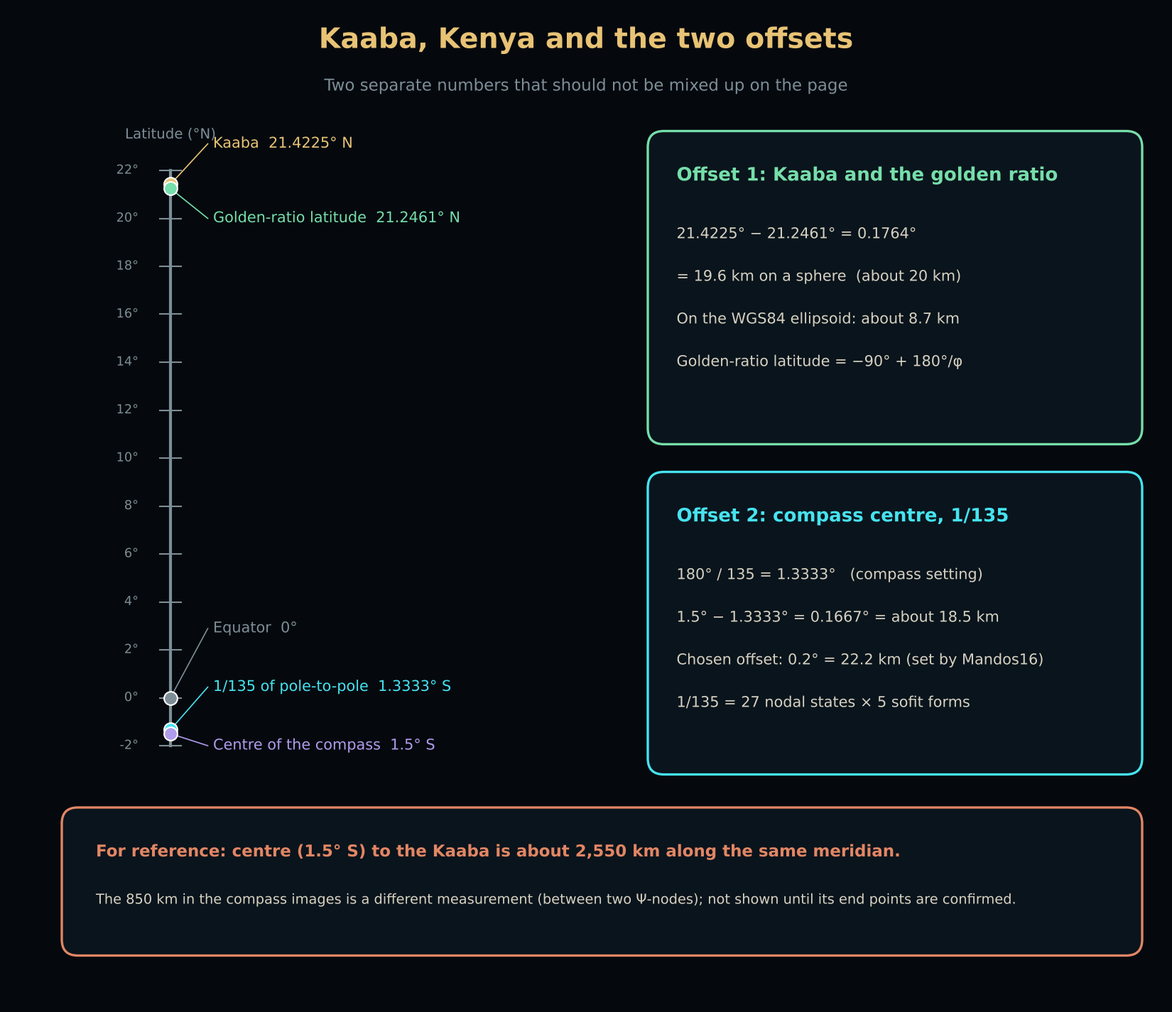
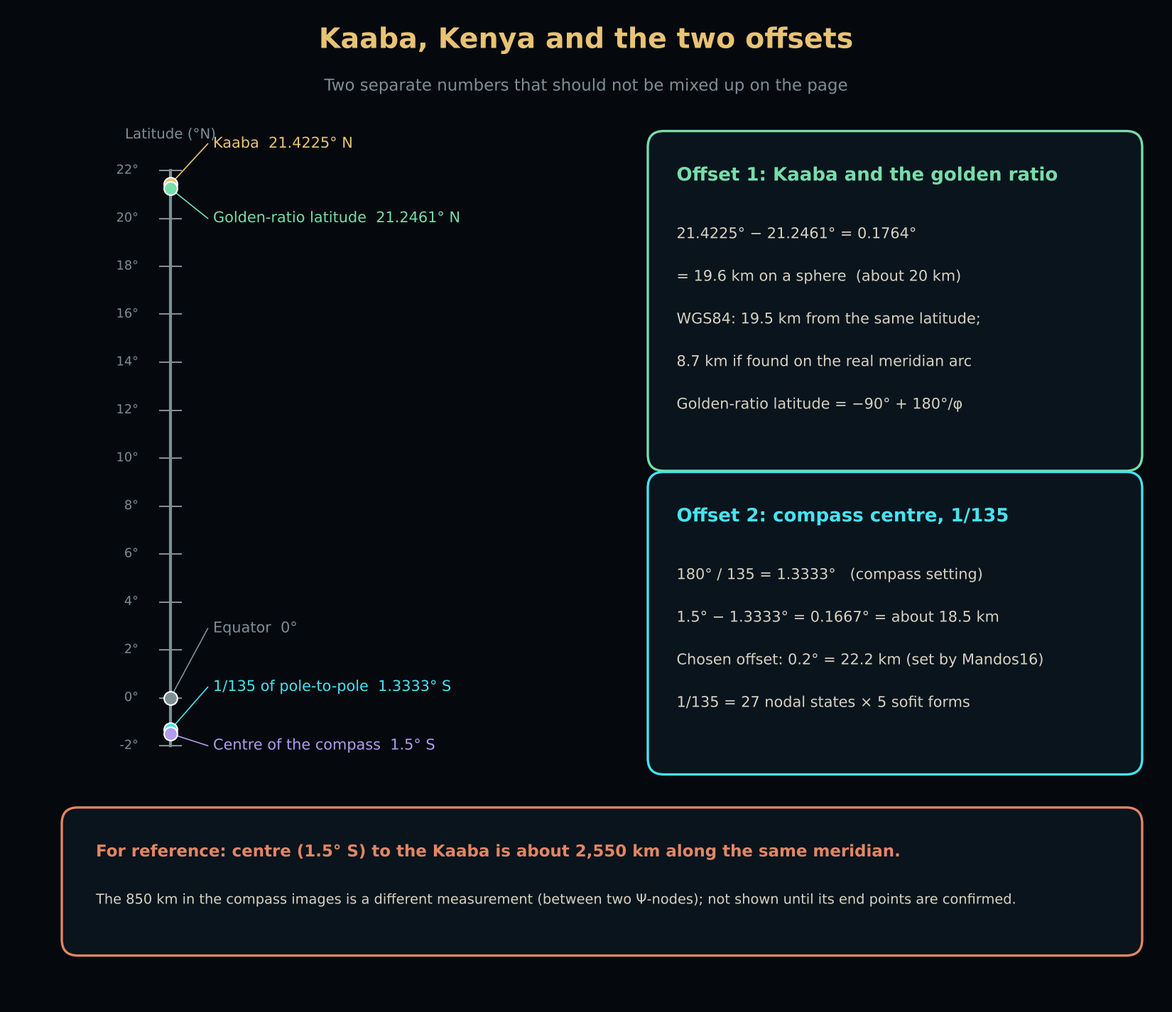
3D sphere for white paper shapes

Changed region(s): [[0.5873, 0.3088, 0.8345, 0.4014], [0.9582, 0.4323, 0.9891, 0.4632], [0.5564, 0.4323, 0.5873, 0.4632]]

diff --git a/ophanim-engine-codex.html b/ophanim-engine-codex.html
@@ -373,6 +373,19 @@ table.eng tr.hot td{background:rgba(176,156,236,.12)}
 .three div{border:1px solid var(--line);background:var(--panel);padding:12px 14px}
 .three b{display:block;font:12px var(--mono);letter-spacing:.12em;text-transform:uppercase;color:var(--ink-3);font-weight:400;margin-bottom:4px}
 .three span{font-size:28px;color:var(--gold)}
+
+.ctl{display:flex;flex-wrap:wrap;gap:8px 16px;align-items:center;margin:14px 0}
+.ctl label{display:flex;gap:6px;align-items:center;font-size:15px;color:var(--ink-2);cursor:pointer}
+.ctl button,.ctl select{font:13px var(--mono);letter-spacing:.06em;color:var(--gold);background:none;border:1px solid rgba(232,195,117,.45);border-radius:6px;padding:7px 12px;cursor:pointer}
+.ctl button.on{background:rgba(232,195,117,.14);border-color:rgb(232,195,117)}
+.ctl input[type=range]{flex:1;min-width:200px;accent-color:#e8c375}
+.cvw{border:1px solid var(--line);background:#05090e;border-radius:6px;margin-top:10px}
+.cvw canvas{width:100%;display:block;touch-action:none;cursor:grab}
+#gl-cv{aspect-ratio:1.25}#jt-cv{aspect-ratio:1.4}
+.readout{border:1px solid var(--line);background:var(--panel);padding:12px 14px;font-size:17px;margin-top:12px;max-width:none}
+#jt-ladder{display:flex;flex-wrap:wrap;gap:8px;margin:10px 0}
+#jt-ladder button{font:13px var(--mono);color:var(--cyan);background:none;border:1px solid rgba(70,227,240,.4);border-radius:99px;padding:6px 12px;cursor:pointer}
+#jt-ladder button.on{background:rgba(70,227,240,.14);border-color:rgb(70,227,240)}
 @media(max-width:700px){table.eng{font-size:14px}table.eng th,table.eng td{padding:6px 4px}}
 </style>
 </head><body>
@@ -384,7 +397,7 @@ table.eng tr.hot td{background:rgba(176,156,236,.12)}
 </header>
 <nav class="dots" id="dots"></nav>
 <main>
-<section id="hero" data-label="Prologue">
+<section data-narrate id="hero" data-label="Prologue">
   <div class="wrap" style="text-align:center">
     <div class="kicker" style="justify-content:center">Ophanim Codex &middot; The Engine</div>
     <h1>The Ophanim Engine<br><em>A Compass Made of Letters</em></h1>
@@ -393,7 +406,7 @@ table.eng tr.hot td{background:rgba(176,156,236,.12)}
     <div class="scrollcue" style="margin-top:40px">SCROLL &#9662;</div>
   </div>
 </section>
-<section id="wheel" data-label="The wheel">
+<section data-narrate id="wheel" data-label="The wheel">
   <div class="wrap">
     <div class="reveal"><div class="kicker">I &middot; The Wheel</div><h2>A circle of <em>36 points</em></h2>
     <p class="dim" style="max-width:66ch">Take a circle and mark 36 points around it, 10 degrees apart. Node 36 sits at the top (0 degrees) and the numbers climb clockwise, so node 9 is at 90 degrees (east), node 18 at 180 (south) and node 27 at 270 (west).</p>
@@ -408,7 +421,7 @@ table.eng tr.hot td{background:rgba(176,156,236,.12)}
     <div class="scr"><table class="eng"><thead><tr><th>Node</th><th>Angle</th><th>Greek</th><th>Hebrew</th><th>Armenian</th><th>Rune</th></tr></thead><tbody><tr><td class="v">1</td><td>10&deg;</td><td>Alpha (1)</td><td>Aleph (1)</td><td>Ayp (1)</td><td>Fehu</td></tr><tr><td class="v">2</td><td>20&deg;</td><td>Beta (2)</td><td>Beth (2)</td><td>Ben (2)</td><td>Uruz</td></tr><tr><td class="v">3</td><td>30&deg;</td><td>Gamma (3)</td><td>Gimel (3)</td><td>Gim (3)</td><td>Thurisaz</td></tr><tr><td class="v">4</td><td>40&deg;</td><td>Delta (4)</td><td>Daleth (4)</td><td>Da (4)</td><td>Ansuz</td></tr><tr><td class="v">5</td><td>50&deg;</td><td>Epsilon (5)</td><td>He (5)</td><td>Ech (5)</td><td>Raidho</td></tr><tr><td class="v">6</td><td>60&deg;</td><td>Stigma (6)</td><td>Vau (6)</td><td>Za (6)</td><td>Kenaz</td></tr><tr><td class="v">7</td><td>70&deg;</td><td>Zeta (7)</td><td>Zayin (7)</td><td>Eh (7)</td><td>Gebo</td></tr><tr><td class="v">8</td><td>80&deg;</td><td>Eta (8)</td><td>Cheth (8)</td><td>Et (8)</td><td>Wunjo</td></tr><tr><td class="v">9</td><td>90&deg;</td><td>Theta (9)</td><td>Teth (9)</td><td>To (9)</td><td>Hagalaz</td></tr><tr><td class="v">10</td><td>100&deg;</td><td>Iota (10)</td><td>Yod (10)</td><td>Zhe (10)</td><td>Nauthiz</td></tr><tr><td class="v">11</td><td>110&deg;</td><td>Kappa (20)</td><td>Kaph (20)</td><td>Ini (20)</td><td>Isa</td></tr><tr><td class="v">12</td><td>120&deg;</td><td>Lambda (30)</td><td>Lamed (30)</td><td>Liwn (30)</td><td>Jera</td></tr><tr><td class="v">13</td><td>130&deg;</td><td>Mu (40)</td><td>Mem (40)</td><td>Xid (40)</td><td>Eihwaz</td></tr><tr><td class="v">14</td><td>140&deg;</td><td>Nu (50)</td><td>Nun (50)</td><td>C’a (50)</td><td>Perthro</td></tr><tr><td class="v">15</td><td>150&deg;</td><td>Xi (60)</td><td>Samekh (60)</td><td>Ken (60)</td><td>Algiz</td></tr><tr><td class="v">16</td><td>160&deg;</td><td>Omicron (70)</td><td>Ayin (70)</td><td>Ho (70)</td><td>Sowilo</td></tr><tr><td class="v">17</td><td>170&deg;</td><td>Pi (80)</td><td>Pe (80)</td><td>Ja (80)</td><td>Tiwaz</td></tr><tr><td class="v">18</td><td>180&deg;</td><td>Koppa (90)</td><td>Tzaddi (90)</td><td>Ghad (90)</td><td>Berkano</td></tr><tr><td class="v">19</td><td>190&deg;</td><td>Rho (100)</td><td>Qoph (100)</td><td>Che (100)</td><td>Ehwaz</td></tr><tr><td class="v">20</td><td>200&deg;</td><td>Sigma (200)</td><td>Resh (200)</td><td>Men (200)</td><td>Mannaz</td></tr><tr><td class="v">21</td><td>210&deg;</td><td>Tau (300)</td><td>Shin (300)</td><td>Yi (300)</td><td>Laguz</td></tr><tr><td class="v">22</td><td>220&deg;</td><td>Upsilon (400)</td><td>Tav (400)</td><td>Now (400)</td><td>Ingwaz</td></tr><tr><td class="v">23</td><td>230&deg;</td><td>Phi (500)</td><td>Kaph final (500)</td><td>Sha (500)</td><td>Dagaz</td></tr><tr><td class="v">24</td><td>240&deg;</td><td>Chi (600)</td><td>Mem final (600)</td><td>Vo (600)</td><td>Othala</td></tr><tr><td class="v">25</td><td>250&deg;</td><td>Psi (700)</td><td>Nun final (700)</td><td>Ch’a (700)</td><td>Fehu 2</td></tr><tr><td class="v">26</td><td>260&deg;</td><td>Omega (800)</td><td>Pe final (800)</td><td>Pe (800)</td><td>Uruz 2</td></tr><tr><td class="v">27</td><td>270&deg;</td><td>Sampi (900)</td><td>Tzaddi final (900)</td><td>Jheh (900)</td><td>Thurisaz 2</td></tr><tr><td class="v">28</td><td>280&deg;</td><td>Alpha′ (1000)</td><td>Aleph′ (1000)</td><td>Ra (1000)</td><td>Ansuz 2</td></tr><tr><td class="v">29</td><td>290&deg;</td><td>Beta′ (2000)</td><td>Beth′ (2000)</td><td>Se (2000)</td><td>Raidho 2</td></tr><tr><td class="v">30</td><td>300&deg;</td><td>Gamma′ (3000)</td><td>Gimel′ (3000)</td><td>Vew (3000)</td><td>Kenaz 2</td></tr><tr><td class="v">31</td><td>310&deg;</td><td>Delta′ (4000)</td><td>Daleth′ (4000)</td><td>Tiew (4000)</td><td>Gebo 2</td></tr><tr><td class="v">32</td><td>320&deg;</td><td>Epsilon′ (5000)</td><td>He′ (5000)</td><td>Re (5000)</td><td>Wunjo 2</td></tr><tr><td class="v">33</td><td>330&deg;</td><td>Stigma′ (6000)</td><td>Vau′ (6000)</td><td>C’o (6000)</td><td>Hagalaz 2</td></tr><tr class="hot"><td class="v">34</td><td>340&deg;</td><td>Zeta′ (7000)</td><td>Zayin′ (7000)</td><td>Yiwn (7000)</td><td>Naudiz 2</td></tr><tr><td class="v">35</td><td>350&deg;</td><td>Eta′ (8000)</td><td>Cheth′ (8000)</td><td>P’wr (8000)</td><td>Isa 2</td></tr><tr><td class="v">36</td><td>360&deg;</td><td>Sampi′ (9000)</td><td>Teth′ (9000)</td><td>K’ew (9000)</td><td>Jera 2</td></tr></tbody></table></div></details>
   </div>
 </section>
-<section id="cage" data-label="The cage">
+<section data-narrate id="cage" data-label="The cage">
   <div class="wrap">
     <div class="reveal"><div class="kicker">II &middot; The Cage and the Star</div><h2>26 points, <em>then 8 more</em></h2>
     <p class="dim" style="max-width:66ch">Picture a 3 x 3 x 3 block of 27 points, like a Rubik&rsquo;s cube. Remove the one at the very centre and 26 are left: the outside of the cube. The engine calls this the <b>cage</b>. 26 is also the atomic number of iron.</p>
@@ -418,7 +431,7 @@ table.eng tr.hot td{background:rgba(176,156,236,.12)}
     <p class="dim" style="max-width:66ch"><span class="tag fw">framework</span> The claim that the eight corners are eight persistent loops (a Betti-1 count of 8, from topological data analysis) is the paper&rsquo;s own statement. We have not computed it here. The scatter-plot pictures of it that we were shown were simulated, so none is shown on this page.</p></div>
   </div>
 </section>
-<section id="law" data-label="430">
+<section data-narrate id="law" data-label="430">
   <div class="wrap">
     <div class="reveal"><div class="kicker">III &middot; The Number 430</div><h2>Law, number, <em>mathematics</em></h2>
     <p class="dim" style="max-width:66ch">Three Greek words come to exactly the same total, and so do two Hebrew ones. This is the centre of the engine.</p>
@@ -434,15 +447,15 @@ table.eng tr.hot td{background:rgba(176,156,236,.12)}
     <p class="dim" style="max-width:66ch">The compass uses 1/135 as its setting. The reason given in the white paper is that Hebrew has 27 letter-states, 22 letters plus 5 final forms, and the 5 finals multiply: <b>27 x 5 = 135</b>. <span class="tag ok">checked</span> The product is right. <span class="tag fw">framework</span> Choosing 135 rather than 137 (the fine-structure constant is about 1/137.036 in physics) is a deliberate design choice of the engine.</p></div>
   </div>
 </section>
-<section id="kaaba" data-label="The Kaaba">
+<section data-narrate id="kaaba" data-label="The Kaaba">
   <div class="wrap">
     <div class="reveal"><div class="kicker">IV &middot; The Kaaba and the Golden Ratio</div><h2>Two offsets, <em>kept apart</em></h2>
     <p class="dim" style="max-width:66ch">The golden ratio, 1.618, can be used to divide the distance from the South Pole to the North Pole. The point 0.618 of the way up lies at 21.2461 degrees north, from the formula &minus;90 + 180/&phi;. The Kaaba is at 21.4225 degrees north, a gap of 0.1764 degrees.</p>
-    <p class="dim" style="max-width:66ch">On a perfectly round Earth that gap is <b>19.6 km</b>, which the engine rounds to 20 km. On the real, slightly flattened Earth (the WGS84 model) the gap is about <b>8.7 km</b>. The engine&rsquo;s compass centre sits at 1.5 degrees south, and the setting 1/135 of the pole-to-pole arc is 1.3333 degrees, giving a separate gap of about 18.5 km. The engine&rsquo;s own chosen offset of 0.2 degrees (22 km) is a third number, set by the author.</p></div>
+    <p class="dim" style="max-width:66ch">On a perfectly round Earth that gap is <b>19.6 km</b>, which the engine rounds to 20 km. On the real, slightly flattened Earth (WGS84) it depends on how the golden-ratio point is found: measured from the same latitude, 21.2461&deg;, the gap is <b>19.5 km</b>; but if you divide the real pole-to-pole arc by the golden ratio, the point moves to 21.344&deg; and the gap shrinks to about <b>8.7 km</b>. The engine&rsquo;s compass centre sits at 1.5 degrees south, and the setting 1/135 of the pole-to-pole arc is 1.3333 degrees, giving a separate gap of about 18.5 km. The engine&rsquo;s own chosen offset of 0.2 degrees (22 km) is a third number, set by the author.</p></div>
     <figure class="figw reveal"><img src="img/kaaba-kenya.png" alt="Latitude ruler with the Kaaba, the golden-ratio latitude, the equator and the compass centre, and two boxes with the offset calculations" loading="lazy"><figcaption><span class="tag ok">checked</span> every number in the picture. <span class="tag fw">framework</span> what the offsets mean.</figcaption></figure>
   </div>
 </section>
-<section id="corridor" data-label="St Michael">
+<section data-narrate id="corridor" data-label="St Michael">
   <div class="wrap">
     <div class="reveal"><div class="kicker">V &middot; The St Michael Line</div><h2>How far is <em>far</em>?</h2>
     <p class="dim" style="max-width:66ch">The St Michael line runs from St Michael&rsquo;s Mount in Cornwall to Hopton-on-Sea in Norfolk and passes near Burrow Mump, Glastonbury Tor and Avebury. Stonehenge sits to the south of it.</p>
@@ -450,32 +463,70 @@ table.eng tr.hot td{background:rgba(176,156,236,.12)}
     <figure class="figw reveal"><img src="img/st-michael-line.png" alt="Map of the St Michael line with the four sites, and a bar chart comparing two ways of measuring the offsets" loading="lazy"><figcaption><span class="tag ok">checked</span> both sets of numbers, from the same coordinates. They answer different questions, so a figure should always say which method it uses.</figcaption></figure>
   </div>
 </section>
-<section id="cadmus" data-label="Kalamos">
+<section data-narrate id="cadmus" data-label="Kalamos">
   <div class="wrap">
     <div class="reveal"><div class="kicker">VI &middot; The Reed and Cadmus</div><h2>A closed delta, <em>opened</em></h2>
     <p class="dim" style="max-width:66ch">&ldquo;Cadmus&rdquo; (ΚΑΔΜΟΣ) adds up to 335, and &ldquo;reed&rdquo; (ΚΑΛΑΜΟΣ) to 362. The difference, 27, is what you get when the delta (4) is opened into lambda plus alpha (30 + 1 = 31). Revelation 11:1 says &ldquo;a reed like a rod&rdquo;, and those three Greek words add up to 1729: κάλαμος 362 + ὅμοιος 460 + ῥάβδῳ 907.</p></div>
     <figure class="figw reveal"><img src="img/kalamos-cadmus.png" alt="Cadmus and Kalamos letter values and the Revelation 11:1 total of 1729" loading="lazy"><figcaption><span class="tag ok">checked</span> 335, 362, 460, 907 and the total 1729. <span class="tag no">did not hold</span> &ldquo;σῶμα τοῦ Ἰησοῦ&rdquo; by plain letter values is 2499, not 1729.</figcaption></figure>
   </div>
 </section>
-<section id="salt" data-label="Salt">
+<section data-narrate id="globe" data-label="The globe">
   <div class="wrap">
-    <div class="reveal"><div class="kicker">VII &middot; Salt</div><h2>The cube <em>that conducts</em></h2>
+    <div class="reveal"><div class="kicker">VII &middot; The Globe and Its Offsets</div><h2>Turn the Earth, <em>move the offset</em></h2>
+    <p class="dim" style="max-width:66ch">Drag the globe to turn it. Switch layers on and off. The gold dashed ring is the offset: it sits &epsilon; degrees south of the 1/135 latitude (1.3333&deg; S). Slide &epsilon; or use a preset to move it, and the distances below are worked out live, once for a perfectly round Earth and once for the real, slightly flattened Earth (WGS84).</p>
+    <p class="dim" style="max-width:66ch;font-size:15px">The compass centre and the offset points are placed on the Kaaba&rsquo;s meridian (39.83&deg; E) because their longitude is not yet fixed. The coastlines are rough outlines to help you find your way, not a map.</p></div>
+    <div class="cvw reveal"><canvas id="gl-cv"></canvas></div>
+    <div class="ctl reveal">
+      <label><input type="checkbox" id="gl-auto"> Turn slowly</label>
+      <label><input type="checkbox" id="gl-land"> Outlines</label>
+      <label><input type="checkbox" id="gl-grid"> Grid</label>
+      <label><input type="checkbox" id="gl-eq"> Equator</label>
+      <label><input type="checkbox" id="gl-gold"> Golden-ratio latitude</label>
+      <label><input type="checkbox" id="gl-kaaba"> Kaaba</label>
+      <label><input type="checkbox" id="gl-c135"> 1/135 and centre</label>
+      <label><input type="checkbox" id="gl-eps"> Offset ring</label>
+      <label><input type="checkbox" id="gl-stm"> St Michael line</label>
+      <label><input type="checkbox" id="gl-tour"> Tour stations (approx.)</label>
+    </div>
+    <div class="ctl reveal"><span style="font-size:15px;color:var(--ink-2)">Offset &epsilon;</span><input type="range" id="gl-epsr" min="0" max="1" step="0.0001" value="0.1667" aria-label="Offset in degrees"><button type="button" id="gl-p1">0.1667&deg; (centre 1.5&deg; S)</button><button type="button" id="gl-p2">0.2&deg; (chosen)</button><button type="button" id="gl-p3">0.1764&deg; (Kaaba gap)</button></div>
+    <p class="readout reveal" id="gl-epsout"></p>
+    <div class="ctl reveal"><span style="font-size:15px;color:var(--ink-2)">Measure from</span><select id="gl-a" aria-label="From"></select><span style="font-size:15px;color:var(--ink-2)">to</span><select id="gl-b" aria-label="To"></select></div>
+    <p class="readout reveal" id="gl-dist"></p>
+    <p class="dim reveal" style="max-width:66ch;font-size:15px;margin-top:10px"><span class="tag ok">checked</span> The distances use the haversine formula for the sphere and Vincenty&rsquo;s method for the WGS84 ellipsoid. The tour stations are approximate positions read from names, not surveyed points.</p>
+  </div>
+</section>
+<section data-narrate id="jitter" data-label="Jitterbug">
+  <div class="wrap">
+    <div class="reveal"><div class="kicker">VIII &middot; The Jitterbug and the Ladder</div><h2>Shapes that <em>grow and turn</em></h2>
+    <p class="dim" style="max-width:66ch">Buckminster Fuller found that a cuboctahedron, 12 points around a centre, can fold and twist into an icosahedron and then an octahedron, as if it were breathing. Press Play, or drag the slider to move it yourself.</p>
+    <p class="dim" style="max-width:66ch">The second view is a ladder of shapes by number of points: tetrahedron 4, octahedron 6, cube 8, icosahedron 12, the 13-point vector equilibrium, the 26-point cage, the 27-point block and the 34-point radiator. Pick a rung and the points move to the next shape. The ladder does not yet reach 36 or 37, because those shapes have not been defined by a construction.</p></div>
+    <div class="ctl reveal"><button type="button" id="jt-m1" class="on">Jitterbug</button><button type="button" id="jt-m2">Ladder of shapes</button><span id="jt-cnt" style="font:13px var(--mono);color:var(--ink-2);margin-left:auto"></span></div>
+    <div class="cvw reveal"><canvas id="jt-cv"></canvas></div>
+    <div class="ctl reveal" id="jt-jctl"><button type="button" id="jt-play">Play</button><input type="range" id="jt-u" min="0" max="2" step="0.001" value="0" aria-label="Jitterbug position"></div>
+    <div id="jt-lad-wrap" style="display:none" class="reveal"><div id="jt-ladder"></div></div>
+    <p class="readout reveal" id="jt-note"></p>
+    <p class="dim reveal" style="max-width:66ch;font-size:15px;margin-top:10px"><span class="tag ok">checked</span> The jitterbug motion uses the true family of points (0, &plusmn;a, &plusmn;b) with the ratio b/a running from 1 (cuboctahedron) to the golden ratio 1.618 (icosahedron) and on to infinity (octahedron).</p>
+  </div>
+</section>
+<section data-narrate id="salt" data-label="Salt">
+  <div class="wrap">
+    <div class="reveal"><div class="kicker">IX &middot; Salt</div><h2>The cube <em>that conducts</em></h2>
     <p class="dim" style="max-width:66ch">Table salt, sodium chloride (NaCl), forms cubic crystals. Inside, each sodium ion is surrounded by six chloride ions at right angles, and each chloride by six sodium: an octahedron around every ion, inside a cube. That is chemistry, and it fits the geometry of this page well: the cube and the octahedron are the two shapes it keeps using.</p>
     <p class="dim" style="max-width:66ch">Salt dissolved in water carries electricity, which is why the saline drip in a hospital is about 0.9% NaCl. Your nerves and heart depend on sodium and potassium ions crossing cell membranes. Pure distilled water carries almost no current.</p>
     <p class="dim" style="max-width:66ch">Mark 9:49 reads &ldquo;every sacrifice will be seasoned with salt&rdquo;. <span class="tag ok">checked</span> The Greek of that phrase adds up to 1748, the same as εἰδωλόθυτον (food offered to idols). Zamzam, the well water of Mecca, contains sodium chloride along with other minerals; the white papers do not mention it.</p></div>
   </div>
 </section>
-<section id="words" data-label="Words">
+<section data-narrate id="words" data-label="Words">
   <div class="wrap">
-    <div class="reveal"><div class="kicker">VIII &middot; Words That Add Up</div><h2>The sums <em>we checked</em></h2>
+    <div class="reveal"><div class="kicker">X &middot; Words That Add Up</div><h2>The sums <em>we checked</em></h2>
     <p class="dim" style="max-width:66ch">Every line below was recomputed with the 27-letter Greek system (stigma 6, koppa 90, sampi 900).</p>
     <div class="scr"><table class="eng"><thead><tr><th>Word</th><th>Value</th><th>Note</th></tr></thead><tbody><tr><td class="n" lang="el">ΓΡΑΜΜΑ</td><td class="v">185</td><td>&ldquo;letter&rdquo;. 4,995 / 185 = 27, the number of letters in the grid</td></tr><tr><td class="n" lang="el">ΑΡΙΘΜΟΣ</td><td class="v">430</td><td>number</td></tr><tr><td class="n" lang="el">ΝΟΜΟΣ</td><td class="v">430</td><td>law</td></tr><tr><td class="n" lang="el">ΜΑΘΗΜΑΤΙΚΑ</td><td class="v">430</td><td>mathematics</td></tr><tr><td class="n" lang="el">τὸ δίκτυον</td><td class="v">1224</td><td>the net (John 21)</td></tr><tr><td class="n" lang="el">ἰχθύες</td><td class="v">1224</td><td>fishes. 1224 = 153 x 8</td></tr><tr><td class="n" lang="el">Ἰησοῦς</td><td class="v">888</td><td></td></tr><tr><td class="n" lang="el">Ἀλήθεια</td><td class="v">64</td><td>truth. 37 x 64 = 2368</td></tr><tr><td class="n" lang="el">Ἰησοῦς Χριστός</td><td class="v">2368</td><td>= 37 x 64</td></tr><tr><td class="n" lang="el">τὸ Ἅγιον Πνεῦμα</td><td class="v">1080</td><td>the Holy Spirit</td></tr><tr><td class="n" lang="el">ἡ δόξα τοῦ θεοῦ Ἰσραήλ</td><td class="v">1746</td><td>1080 + 666 = 1746</td></tr><tr><td class="n" lang="el">ἐποίησεν πηλόν</td><td class="v">666</td><td>he made clay (John 9:6)</td></tr><tr><td class="n" lang="el">πλευράν</td><td class="v">666</td><td>rib</td></tr><tr><td class="n" lang="el">Γάιος Καῖσαρ</td><td class="v">616</td><td>Caligula, the 616 variant</td></tr><tr><td class="n" lang="el">καὶ πᾶσα θυσία ἁλὶ ἁλισθήσεται</td><td class="v">1748</td><td>Mark 9:49, every sacrifice salted</td></tr><tr><td class="n" lang="el">εἰδωλόθυτον</td><td class="v">1748</td><td>food offered to idols</td></tr><tr><td class="n" lang="el">οὐδὲ ὁ Υἱός</td><td class="v">1229</td><td>nor the Son</td></tr><tr><td class="n" lang="el">πληρῶσαι</td><td class="v">1229</td><td>to fill up</td></tr><tr><td class="n" lang="el">περιστερά</td><td class="v">801</td><td>dove. Also Α + Ω = 1 + 800</td></tr><tr><td class="n" lang="el">ὁ Κτίσας</td><td class="v">801</td><td>the Creator</td></tr><tr><td class="n" lang="el">ὁ Θεὸς Ἑρμῆς</td><td class="v">707</td><td>the god Hermes. &radic;5000 = 70.71</td></tr><tr><td class="n" lang="el">Χριστός</td><td class="v">1480</td><td></td></tr><tr><td class="n" lang="el">ἄρτοι</td><td class="v">481</td><td>loaves</td></tr><tr><td class="n" lang="el">κάλαμος</td><td class="v">362</td><td>reed</td></tr></tbody></table></div>
     <p class="dim" style="max-width:66ch;margin-top:12px"><span class="tag ok">checked</span> Also: the 27 letters add up to 4,995, and 4,995 / 185 (ΓΡΑΜΜΑ) = 27. The words for 666 written out (ἑξακόσιοι ἑξήκοντα ἕξ) and Αὐτοκράτωρ Καῖσαρ both come to 199 when letters are counted in order (α = 1 to ω = 24), a different method from the one above.</p></div>
   </div>
 </section>
-<section id="audit" data-label="For audit">
+<section data-narrate id="audit" data-label="For audit">
   <div class="wrap">
-    <div class="reveal"><div class="kicker">IX &middot; Open for Audit</div><h2>What <em>did not hold</em></h2></div>
+    <div class="reveal"><div class="kicker">XI &middot; Open for Audit</div><h2>What <em>did not hold</em></h2></div>
     <div class="record reveal audit">
       <p>We recomputed every number we could. These did not hold as written, so they are kept off the page as facts:</p>
       <ul style="margin:10px 0 0 22px">
@@ -485,7 +536,7 @@ table.eng tr.hot td{background:rgba(176,156,236,.12)}
         <li><span class="tag no">did not hold</span> <b>Ἰδιώτης = 1331 (11 cubed).</b> It adds up to 1332.</li>
         <li><span class="tag no">did not hold</span> <b>λαός μοι οἶκος Ἰσραήλ = 1530.</b> As spelled here it adds up to 1140.</li>
         <li><span class="tag no">did not hold</span> <b>Node 34 at 330 degrees.</b> Node 34 is at 340 degrees. Node 33 is at 330.</li>
-        <li><span class="tag no">did not hold</span> <b>The 20 km offset &ldquo;on the WGS84 ellipsoid&rdquo;.</b> It is 19.6 km on a sphere and about 8.7 km on the ellipsoid.</li>
+        <li><span class="tag no">did not hold</span> <b>The 20 km offset &ldquo;on the WGS84 ellipsoid&rdquo;.</b> 19.6 km is the round-Earth figure. On the ellipsoid it is 19.5 km from the same latitude, or about 8.7 km if the golden-ratio point is found along the real flattened meridian. The paper does not say which it means.</li>
       </ul>
       <p style="margin-top:14px"><span class="tag fw">framework</span> Everything about what the numbers mean (the cage as a perceptual box, the offsets as pressure valves, the &minus;2.6 valve, the connections to Hoffman and Penrose) is the author&rsquo;s reading, not established science. The white papers also say they are a &ldquo;topological field theory&rdquo;; they are not a published or tested theory, and this page does not present them as one.</p>
     </div>
@@ -535,6 +586,8 @@ const items=[['X',()=>'https://twitter.com/intent/tweet?url='+encodeURIComponent
 items.forEach(([n,f])=>{const a=document.createElement('a');a.textContent=n;a.href='#';a.target='_blank';a.rel='noopener noreferrer';a.addEventListener('click',e=>{a.href=f();});box.appendChild(a);});
 const b=document.createElement('button');b.type='button';b.textContent=L.copy;b.addEventListener('click',()=>{const s=()=>{b.textContent=L.done;setTimeout(()=>b.textContent=L.copy,1800)};try{navigator.clipboard.writeText(u()).then(s,()=>prompt(L.copy,u()))}catch(e){prompt(L.copy,u())}});box.appendChild(b);})();
 </script>
+<script src="audio.js"></script>
+<script src="engine3d.js"></script>
 <script src="miniplayer.js"></script>
 </body>
 </html>

diff --git a/engine3d.js b/engine3d.js
@@ -1,0 +1,201 @@
+/* Ophanim Engine: interactive globe with offsets, and the jitterbug / growth ladder. Plain canvas, no libraries. */
+(function(){
+'use strict';
+var D=Math.PI/180, PHI=(1+Math.sqrt(5))/2;
+function $(i){return document.getElementById(i)}
+function fit(cv){var r=cv.getBoundingClientRect(),d=Math.min(2,window.devicePixelRatio||1);cv.width=Math.round(r.width*d);cv.height=Math.round(r.height*d);return {w:cv.width,h:cv.height,d:d}}
+
+/* ================= GLOBE ================= */
+var LAND=[
+[[-17.5,14.7],[-16.5,19.5],[-13,27.5],[-9.5,32],[-6,35.8],[0,35.8],[10,37.2],[11,33],[15,32.3],[20,32],[25,31.8],[32.5,31.2],[34.2,27.8],[36.5,22],[38.5,18],[43.2,12.5],[51,11.8],[51.3,10.5],[48,5],[42,-1],[39.5,-5],[40.5,-11],[40.5,-15],[35,-20],[35.5,-24],[32.5,-26.5],[31,-30],[27,-33.5],[20,-34.8],[18.4,-34],[15,-27],[12,-18],[13.5,-12],[12,-5],[9.5,1],[9.5,4],[6,4.3],[2,6.2],[-4,5.2],[-8,4.5],[-13,8],[-17,12]],
+[[-9.5,37],[-9,43],[-1.5,43.5],[-4.5,48.5],[2,51],[8,54],[10,57.5],[11,59],[5,62],[14,68],[25,71],[40,67],[44,68.5],[60,69],[70,73],[80,73.5],[100,77],[113,73.5],[140,72],[160,70],[170,69.5],[180,68],[180,65],[170,60],[163,58],[156,51],[142,59],[135,54.5],[140,48],[132,43],[129,35],[122,40],[122,31],[120,22],[108,21],[106,10],[100,13],[103,1.3],[98,8],[94,17],[88,22],[80,15],[77.5,8],[72.8,19],[66,25],[57,26],[56,27],[48,30],[50.5,25.5],[56.5,24.5],[59.5,22.5],[52,16],[43,12.8],[39,21.5],[35,28],[34.5,31],[35.8,36.5],[30,36.2],[27,37],[26,40.5],[23.5,40],[21,38],[23,36.5],[19.5,40],[16,38],[18.5,40.2],[12.5,41.5],[9,44.3],[3,43],[-1.5,37],[-5.5,36]],
+[[-5.7,50],[-3,50.6],[1.4,51.2],[1.7,52.7],[0,53.5],[-2,55.8],[-2,57.5],[-3.5,58.6],[-5,58.5],[-6,57],[-5.5,55],[-3,54.7],[-3.2,53.4],[-4.5,53],[-4.2,51.7],[-5.2,51.7]],
+[[-10,51.5],[-6,52],[-6,54.3],[-8,55.2],[-10,54]],
+[[-73,78],[-60,82],[-30,83.5],[-18,80],[-20,70],[-43,60],[-52,64],[-58,76]],
+[[-168,66],[-162,70],[-140,70],[-125,70],[-95,72],[-82,69],[-85,66],[-95,61],[-93,57],[-82,55],[-79,62],[-70,59],[-65,60],[-56,52],[-60,47],[-66,44],[-70,43],[-76,38],[-81,31],[-80,25.5],[-83,29],[-90,29.5],[-97,26],[-97.5,22],[-93,18.5],[-90,21],[-87,21.5],[-88,16],[-83.5,15],[-83.5,10],[-79.5,9],[-77.5,8],[-80,7.5],[-85.5,10],[-87.5,13],[-92,14.5],[-96,15.8],[-105,20],[-109,25],[-112,29],[-114.7,31.5],[-110,23],[-112,25],[-117,32.5],[-121,35],[-124.2,40],[-124,46.5],[-127,50],[-134,57],[-141,60],[-152,59.5],[-158,57],[-165,54.5],[-158,58.5],[-162,60],[-165,63]],
+[[-77.5,8],[-72,12],[-62,10.5],[-51,4],[-50,0],[-44,-2.5],[-35,-5.5],[-37,-12],[-39,-18],[-41,-22.5],[-48,-26],[-53,-34],[-58,-35],[-57,-38],[-62,-39],[-65,-45],[-68,-50],[-69,-53],[-72,-53],[-75,-47],[-73.5,-40],[-71.5,-30],[-70.5,-18],[-76,-14],[-81,-5],[-80,0],[-78.5,2]],
+[[113,-22],[114,-26],[115,-34],[118,-35],[124,-33.5],[131,-31.5],[135.5,-35],[138,-35],[140,-38],[146,-39],[150,-37],[153,-31],[153,-25],[146,-19],[142.5,-10.7],[141,-13],[136,-12],[131,-11.5],[128,-15],[122,-17.5]],
+[[44,-25],[47,-25],[50,-15],[49,-12],[47,-15],[44,-20]]
+];
+var KLAT=21.4225,KLON=39.8262;
+var GOLDLAT=-90+180/PHI;                       /* 21.2461 */
+var L135=-180/135;                              /* -1.3333 */
+var PTS={
+ kaaba:{n:'The Kaaba',lat:KLAT,lon:KLON},
+ gold:{n:'Golden-ratio latitude point',lat:GOLDLAT,lon:KLON},
+ l135:{n:'1/135 latitude point',lat:L135,lon:KLON},
+ centre:{n:'Compass centre (1.5° S)',lat:-1.5,lon:KLON},
+ eps:{n:'Offset point (slider)',lat:L135,lon:KLON},
+ mount:{n:'St Michael’s Mount',lat:50.1167,lon:-5.4833},
+ hopton:{n:'Hopton-on-Sea',lat:52.5310,lon:1.7280},
+ stone:{n:'Stonehenge',lat:51.1789,lon:-1.8262},
+ aveb:{n:'Avebury',lat:51.4286,lon:-1.8542}
+};
+var TOUR=[['Mount Ararat',39.70,44.30],['Matenadaran',40.19,44.52],['Byblos / Ugarit',34.86,35.72],['The Kaaba',KLAT,KLON],['Delphi / Epidaurus',38.04,22.79],['Etruria / Capitoline',42.07,12.12],['St Michael’s corridor',51.3,-1.9],['Rök Runestone',58.30,14.80]];
+
+/* distances: sphere (haversine) and WGS84 ellipsoid (Vincenty inverse) */
+function hav(a,b){var R=6371.0088,p1=a.lat*D,p2=b.lat*D,dp=p2-p1,dl=(b.lon-a.lon)*D;var h=Math.sin(dp/2)*Math.sin(dp/2)+Math.cos(p1)*Math.cos(p2)*Math.sin(dl/2)*Math.sin(dl/2);return 2*R*Math.asin(Math.min(1,Math.sqrt(h)))}
+function vinc(a,b){
+  var A=6378137,F=1/298.257223563,B=(1-F)*A;
+  var U1=Math.atan((1-F)*Math.tan(a.lat*D)),U2=Math.atan((1-F)*Math.tan(b.lat*D)),L=(b.lon-a.lon)*D,lam=L,i=0,sS,cS,sg,cA,c2,C,sl,cl;
+  var sU1=Math.sin(U1),cU1=Math.cos(U1),sU2=Math.sin(U2),cU2=Math.cos(U2);
+  if(Math.abs(a.lat-b.lat)<1e-12&&Math.abs(L)<1e-12)return 0;
+  do{sl=Math.sin(lam);cl=Math.cos(lam);sS=Math.sqrt(Math.pow(cU2*sl,2)+Math.pow(cU1*sU2-sU1*cU2*cl,2));if(sS===0)return 0;cS=sU1*sU2+cU1*cU2*cl;sg=Math.atan2(sS,cS);var sa=cU1*cU2*sl/sS;cA=1-sa*sa;c2=cA?cS-2*sU1*sU2/cA:0;C=F/16*cA*(4+F*(4-3*cA));var lp=lam;lam=L+(1-C)*F*sa*(sg+C*sS*(c2+C*cS*(-1+2*c2*c2)));}while(Math.abs(lam-lp)>1e-12&&++i<200);
+  var u2=cA*(A*A-B*B)/(B*B),AA=1+u2/16384*(4096+u2*(-768+u2*(320-175*u2))),BB=u2/1024*(256+u2*(-128+u2*(74-47*u2)));
+  var ds=BB*sS*(c2+BB/4*(cS*(-1+2*c2*c2)-BB/6*c2*(-3+4*sS*sS)*(-3+4*c2*c2)));
+  return B*AA*(sg-ds)/1000;
+}
+function fmt(x){return x<10?x.toFixed(2):x<100?x.toFixed(1):Math.round(x).toLocaleString('en')}
+
+function initGlobe(){
+  var cv=$('gl-cv'); if(!cv)return;
+  var ctx=cv.getContext('2d'),W,H,lon0=35,lat0=22,drag=null,auto=true,eps=0.1667;
+  var L={land:true,grid:true,eq:true,gold:true,kaaba:true,c135:true,eps:true,stm:false,tour:false};
+  function size(){var s=fit(cv);W=s.w;H=s.h}
+  size();window.addEventListener('resize',function(){size();draw()});
+  function proj(lat,lon){
+    var p=lat*D,l=(lon-lon0)*D,x=Math.cos(p)*Math.sin(l),y=Math.sin(p),z=Math.cos(p)*Math.cos(l);
+    var pc=lat0*D,y2=y*Math.cos(pc)-z*Math.sin(pc),z2=y*Math.sin(pc)+z*Math.cos(pc);
+    var R=Math.min(W,H)*0.45;return {x:W/2+x*R,y:H/2-y2*R,z:z2,R:R};
+  }
+  function line(pts,col,lw,dash){ /* polyline of [lat,lon], hidden part skipped */
+    ctx.beginPath();var pen=false;
+    for(var i=0;i<pts.length;i++){var q=proj(pts[i][0],pts[i][1]);if(q.z<0){pen=false;continue}if(!pen){ctx.moveTo(q.x,q.y);pen=true}else ctx.lineTo(q.x,q.y)}
+    ctx.strokeStyle=col;ctx.lineWidth=lw*(window.devicePixelRatio||1);ctx.setLineDash(dash?dash.map(function(v){return v*(window.devicePixelRatio||1)}):[]);ctx.stroke();ctx.setLineDash([]);
+  }
+  function latc(lat){var a=[];for(var lo=-180;lo<=180;lo+=3)a.push([lat,lo]);return a}
+  function lonc(lon){var a=[];for(var la=-90;la<=90;la+=3)a.push([la,lon]);return a}
+  function dot(lat,lon,col,r,label,dx,dy){var q=proj(lat,lon);if(q.z<0)return;var d=window.devicePixelRatio||1;ctx.beginPath();ctx.arc(q.x,q.y,r*d,0,7);ctx.fillStyle=col;ctx.shadowColor=col;ctx.shadowBlur=10*d;ctx.fill();ctx.shadowBlur=0;ctx.lineWidth=1.2*d;ctx.strokeStyle='#fff';ctx.stroke();if(label){ctx.font=(12*d)+'px Inter,sans-serif';ctx.fillStyle=col;ctx.textAlign=dx<0?'right':'left';ctx.fillText(label,q.x+dx*d,q.y+dy*d)}}
+  function gc(a,b,n){var A=v3(a),B=v3(b),om=Math.acos(Math.max(-1,Math.min(1,A[0]*B[0]+A[1]*B[1]+A[2]*B[2]))),out=[];for(var i=0;i<=n;i++){var f=i/n,s1=Math.sin((1-f)*om)/Math.sin(om),s2=Math.sin(f*om)/Math.sin(om),v=[s1*A[0]+s2*B[0],s1*A[1]+s2*B[1],s1*A[2]+s2*B[2]];out.push([Math.asin(v[2])/D,Math.atan2(v[1],v[0])/D])}return out}
+  function v3(p){var la=p.lat*D,lo=p.lon*D;return [Math.cos(la)*Math.cos(lo),Math.cos(la)*Math.sin(lo),Math.sin(la)]}
+  function draw(){
+    ctx.clearRect(0,0,W,H);var R=Math.min(W,H)*0.45,d=window.devicePixelRatio||1;
+    var g=ctx.createRadialGradient(W/2-R*.3,H/2-R*.3,R*.1,W/2,H/2,R);g.addColorStop(0,'#10303d');g.addColorStop(1,'#050d14');
+    ctx.beginPath();ctx.arc(W/2,H/2,R,0,7);ctx.fillStyle=g;ctx.fill();ctx.lineWidth=1.5*d;ctx.strokeStyle='rgba(70,227,240,.5)';ctx.stroke();
+    if(L.grid){for(var la=-75;la<=75;la+=15)line(latc(la),'rgba(125,142,150,.22)',1);for(var lo=-180;lo<180;lo+=15)line(lonc(lo),'rgba(125,142,150,.22)',1)}
+    if(L.land){LAND.forEach(function(poly){ctx.beginPath();var pen=false,vis=0;poly.forEach(function(p,i){var q=proj(p[1],p[0]);if(q.z>-0.05){vis++;if(!pen){ctx.moveTo(q.x,q.y);pen=true}else ctx.lineTo(q.x,q.y)}});if(vis>2){ctx.closePath();ctx.fillStyle='rgba(118,222,170,.16)';ctx.fill();ctx.lineWidth=1.1*d;ctx.strokeStyle='rgba(118,222,170,.55)';ctx.stroke()}})}
+    if(L.eq)line(latc(0),'rgba(214,210,194,.6)',1.4,[6,5]);
+    if(L.gold){line(latc(GOLDLAT),'rgba(118,222,170,.95)',1.6)}
+    if(L.c135){line(latc(L135),'rgba(70,227,240,.9)',1.5);line(latc(-1.5),'rgba(176,156,236,.9)',1.5)}
+    if(L.eps){line(latc(PTS.eps.lat),'rgba(232,195,117,.95)',1.8,[3,3])}
+    if(L.stm){line(gc(PTS.mount,PTS.hopton,60),'rgba(232,195,117,.95)',1.8);['mount','hopton','stone','aveb'].forEach(function(k,i){dot(PTS[k].lat,PTS[k].lon,k==='stone'?'#e28664':'#e8c375',3.5,i<2?PTS[k].n:'',i==1?6:-6,i==1?4:-4)})}
+    if(L.tour){TOUR.forEach(function(t){dot(t[1],t[2],'#b09cec',3.5,'',0,0)})}
+    if(L.kaaba)dot(KLAT,KLON,'#e8c375',5,'Kaaba',8,-6);
+    if(L.eps||L.c135)dot(-1.5,KLON,'#b09cec',4,'',0,0);
+    ctx.fillStyle='rgba(214,210,194,.55)';ctx.font=(11*d)+'px monospace';ctx.textAlign='left';ctx.fillText('Rough outlines. Drag to turn.',12*d,H-12*d);
+  }
+  function loop(){if(auto&&!drag){lon0+=0.12;if(lon0>180)lon0-=360}draw();requestAnimationFrame(loop)}
+  var vis=true;try{new IntersectionObserver(function(e){vis=e[0].isIntersecting}).observe(cv)}catch(e){}
+  (function tick(){if(vis){if(auto&&!drag){lon0+=0.12;if(lon0>180)lon0-=360}draw()}requestAnimationFrame(tick)})();
+  cv.addEventListener('pointerdown',function(e){drag={x:e.clientX,y:e.clientY};cv.setPointerCapture(e.pointerId);auto=false;$('gl-auto').checked=false});
+  cv.addEventListener('pointermove',function(e){if(!drag)return;lon0-=(e.clientX-drag.x)*0.4;lat0=Math.max(-80,Math.min(80,lat0+(e.clientY-drag.y)*0.3));drag={x:e.clientX,y:e.clientY};draw()});
+  cv.addEventListener('pointerup',function(){drag=null});cv.addEventListener('pointercancel',function(){drag=null});
+  /* layers */
+  ['land','grid','eq','gold','kaaba','c135','eps','stm','tour'].forEach(function(k){var b=$('gl-'+k);if(!b)return;b.checked=L[k];b.addEventListener('change',function(){L[k]=b.checked;draw()})});
+  $('gl-auto').checked=true;$('gl-auto').addEventListener('change',function(){auto=this.checked});
+  /* offset slider */
+  function setEps(v){eps=v;PTS.eps.lat=L135-eps;$('gl-epsr').value=v;
+    var km=Math.abs(vinc({lat:L135,lon:KLON},{lat:L135-eps,lon:KLON})),ks=hav({lat:L135,lon:KLON},{lat:L135-eps,lon:KLON});
+    $('gl-epsout').innerHTML='Offset &epsilon; = <b>'+eps.toFixed(4)+'&deg;</b> south of the 1/135 latitude (1.3333&deg; S), so the ring sits at <b>'+(-(L135-eps)).toFixed(4)+'&deg; S</b>. That is <b>'+fmt(ks)+' km</b> on a sphere and <b>'+fmt(km)+' km</b> on the WGS84 ellipsoid.';
+    dist()}
+  $('gl-epsr').addEventListener('input',function(){setEps(parseFloat(this.value))});
+  var pre={p1:0.1667,p2:0.2,p3:Math.abs(KLAT-GOLDLAT)};
+  $('gl-p1').onclick=function(){setEps(pre.p1)};$('gl-p2').onclick=function(){setEps(pre.p2)};$('gl-p3').onclick=function(){setEps(pre.p3)};
+  /* measure */
+  var keys=['kaaba','gold','l135','centre','eps','mount','hopton','stone','aveb'];
+  [$('gl-a'),$('gl-b')].forEach(function(s,j){s.innerHTML=keys.map(function(k){return '<option value="'+k+'">'+PTS[k].n+'</option>'}).join('');s.value=j?'gold':'kaaba';s.addEventListener('change',dist)});
+  function dist(){var a=PTS[$('gl-a').value],b=PTS[$('gl-b').value],s=hav(a,b),e=vinc(a,b);
+    $('gl-dist').innerHTML='<b>'+a.n+'</b> to <b>'+b.n+'</b>:<br>sphere <b>'+fmt(s)+' km</b> &middot; WGS84 ellipsoid <b>'+fmt(e)+' km</b> &middot; difference '+fmt(Math.abs(s-e))+' km'}
+  setEps(0.1667);
+}
+
+/* ================= JITTERBUG + LADDER ================= */
+function norm(a){var m=0;a.forEach(function(p){m=Math.max(m,Math.hypot(p[0],p[1],p[2]))});return a.map(function(p){return [p[0]/m,p[1]/m,p[2]/m]})}
+function cube(){var a=[];for(var x=-1;x<=1;x+=2)for(var y=-1;y<=1;y+=2)for(var z=-1;z<=1;z+=2)a.push([x,y,z]);return a}
+var T4=[[1,1,1],[1,-1,-1],[-1,1,-1],[-1,-1,1]];
+var O6=[[1,0,0],[-1,0,0],[0,1,0],[0,-1,0],[0,0,1],[0,0,-1]];
+var I12=(function(){var a=[];[-1,1].forEach(function(s){[-1,1].forEach(function(t){a.push([0,s,t*PHI],[s,t*PHI,0],[t*PHI,0,s])})});return a})();
+var CO12=(function(){var a=[];[-1,1].forEach(function(s){[-1,1].forEach(function(t){a.push([0,s,t],[s,t,0],[t,0,s])})});return a})();
+var VE13=CO12.concat([[0,0,0]]);
+var CAGE26=(function(){var a=[];for(var x=-1;x<=1;x++)for(var y=-1;y<=1;y++)for(var z=-1;z<=1;z++)if(x||y||z)a.push([x,y,z]);return a})();
+var CORE27=CAGE26.concat([[0,0,0]]);
+var RAD34=CAGE26.concat(cube().map(function(c){return [c[0]*1.7,c[1]*1.7,c[2]*1.7]}));
+function edgesAt(P,len,tol){var e=[];for(var i=0;i<P.length;i++)for(var j=i+1;j<P.length;j++){var d=Math.hypot(P[i][0]-P[j][0],P[i][1]-P[j][1],P[i][2]-P[j][2]);if(Math.abs(d-len)<(tol||0.02))e.push([i,j])}return e}
+var STAGES=[
+ {k:'t',n:4,name:'Tetrahedron',note:'4 points. The simplest solid: four triangles.',P:T4,E:edgesAt(T4,2*Math.SQRT2)},
+ {k:'o',n:6,name:'Octahedron',note:'6 points. Eight triangles, the shape of a salt crystal’s coordination around each ion.',P:O6,E:edgesAt(O6,Math.SQRT2)},
+ {k:'c',n:8,name:'Cube',note:'8 points. The corners of the cage.',P:cube(),E:edgesAt(cube(),2)},
+ {k:'i',n:12,name:'Icosahedron',note:'12 points. Twenty triangles.',P:I12,E:edgesAt(I12,2)},
+ {k:'v',n:13,name:'Vector equilibrium',note:'13 points: the 12 of the cuboctahedron around a centre. Fuller’s starting shape for the jitterbug.',P:VE13,E:edgesAt(VE13,Math.SQRT2).concat(edgesAt(VE13,0,0)).filter(function(){return true})},
+ {k:'g',n:26,name:'The cage',note:'26 points: the outside of a 3 x 3 x 3 block.',P:CAGE26,E:edgesAt(CAGE26,1)},
+ {k:'h',n:27,name:'The block',note:'27 points: the cage plus its centre.',P:CORE27,E:edgesAt(CORE27,1)},
+ {k:'r',n:34,name:'The radiator',note:'34 points: the 26-point cage plus 8 corner rays reaching outward.',P:RAD34,E:edgesAt(CAGE26,1).concat((function(){var e=[];for(var i=0;i<8;i++){var c=RAD34[26+i],best=-1,bd=9;for(var j=0;j<26;j++){var d=Math.hypot(c[0]/1.7-CAGE26[j][0],c[1]/1.7-CAGE26[j][1],c[2]/1.7-CAGE26[j][2]);if(d<bd){bd=d;best=j}}e.push([best,26+i])}return e})())}
+];
+/* VE13 edges: centre to each of the 12 outer points */
+STAGES[4].E=edgesAt(CO12,Math.SQRT2).concat(CO12.map(function(_,i){return [i,12]}));
+STAGES.forEach(function(s){s.P=norm(s.P)});
+/* true jitterbug: cuboctahedron -> icosahedron -> octahedron, one slider */
+function jverts(u){
+  var A,B,V=[];
+  if(u<=1){A=1;B=1+(PHI-1)*u}else{A=Math.max(0,2-u)/PHI;B=1}
+  [-1,1].forEach(function(s){[-1,1].forEach(function(t){V.push([0,s*A,t*B],[s*B,0,t*A],[s*A,t*B,0])})});
+  var m=0;V.forEach(function(p){m=Math.max(m,Math.hypot(p[0],p[1],p[2]))});return V.map(function(p){return [p[0]/m,p[1]/m,p[2]/m]});
+}
+/* faces: the 8 triangles, found once on the cuboctahedron (u=0) and kept through the whole motion */
+var JTRI=(function(){var V=jverts(0),t=[];for(var i=0;i<12;i++)for(var j=i+1;j<12;j++)for(var k=j+1;k<12;k++){var d1=Math.hypot(V[i][0]-V[j][0],V[i][1]-V[j][1],V[i][2]-V[j][2]),d2=Math.hypot(V[i][0]-V[k][0],V[i][1]-V[k][1],V[i][2]-V[k][2]),d3=Math.hypot(V[j][0]-V[k][0],V[j][1]-V[k][1],V[j][2]-V[k][2]);var e=Math.SQRT2/Math.hypot(1,1,0);if(Math.abs(d1-d2)<1e-6&&Math.abs(d2-d3)<1e-6&&Math.abs(d1-Math.min(d1,1))<2)t.push([i,j,k,d1])}
+  var m=Math.min.apply(null,t.map(function(x){return x[3]}));return t.filter(function(x){return Math.abs(x[3]-m)<1e-6}).map(function(x){return [x[0],x[1],x[2]]})})();
+
+function initJit(){
+  var cv=$('jt-cv'); if(!cv)return;
+  var ctx=cv.getContext('2d'),W,H,yaw=0.6,pit=0.35,drag=null,auto=true,mode='jit',u=0,stage=0,morph=null,cur=null;
+  function size(){var s=fit(cv);W=s.w;H=s.h}
+  size();window.addEventListener('resize',size);
+  function rot(p){var cy=Math.cos(yaw),sy=Math.sin(yaw),cp=Math.cos(pit),sp=Math.sin(pit);var x=p[0]*cy+p[2]*sy,z=-p[0]*sy+p[2]*cy,y=p[1]*cp-z*sp;z=p[1]*sp+z*cp;return [x,y,z]}
+  function sc(){return Math.min(W,H)*0.34}
+  function P2(p){var r=rot(p),k=1/(1-r[2]*0.18);return [W/2+r[0]*sc()*k,H/2-r[1]*sc()*k,r[2]]}
+  function seg(a,b,al,col){var A=P2(a),B=P2(b);ctx.beginPath();ctx.moveTo(A[0],A[1]);ctx.lineTo(B[0],B[1]);ctx.strokeStyle=col;ctx.globalAlpha=al*(0.55+0.45*((A[2]+B[2])/2+1)/2);ctx.stroke();ctx.globalAlpha=1}
+  function pt(p,col,r){var q=P2(p),d=window.devicePixelRatio||1;ctx.beginPath();ctx.arc(q[0],q[1],r*d*(0.8+0.3*(q[2]+1)/2),0,7);ctx.fillStyle=col;ctx.shadowColor=col;ctx.shadowBlur=9*d;ctx.fill();ctx.shadowBlur=0}
+  function lerp(a,b,t){return [a[0]+(b[0]-a[0])*t,a[1]+(b[1]-a[1])*t,a[2]+(b[2]-a[2])*t]}
+  function setStage(i){
+    var from=cur||STAGES[stage].P,to=STAGES[i].P,n=to.length,src=[];
+    for(var j=0;j<n;j++){var best=0,bd=1e9;for(var k=0;k<from.length;k++){var d=Math.hypot(to[j][0]-from[k][0],to[j][1]-from[k][1],to[j][2]-from[k][2]);if(d<bd){bd=d;best=k}}src.push(from[best])}
+    morph={from:src,to:to,t:0,idx:i};stage=i;
+    document.querySelectorAll('#jt-ladder button').forEach(function(b,j){b.classList.toggle('on',j===i)});
+    $('jt-note').innerHTML='<b>'+STAGES[i].name+' ('+STAGES[i].n+' points)</b>. '+STAGES[i].note.replace(/^\d+ points?[.:]\s*/,'').replace(/^./,function(c){return c.toUpperCase()})}
+  var lad=$('jt-ladder');lad.innerHTML=STAGES.map(function(s,i){return '<button type="button">'+s.n+'</button>'}).join('');
+  lad.querySelectorAll('button').forEach(function(b,i){b.onclick=function(){setMode('lad');setStage(i)}});
+  STAGES.forEach(function(s,i){lad.children[i].title=s.name});
+  function setMode(m){mode=m;$('jt-m1').classList.toggle('on',m==='jit');$('jt-m2').classList.toggle('on',m==='lad');$('jt-jctl').style.display=m==='jit'?'':'none';$('jt-lad-wrap').style.display=m==='lad'?'':'none';if(m==='jit')$('jt-note').textContent=jtxt(u);else setStage(stage)}
+  function jtxt(v){return v<0.05?'Cuboctahedron: 12 points, 8 triangles and 6 squares.':v>0.95&&v<1.05?'Icosahedron: the squares have twisted into triangles. 12 points. The 8 triangles shown are 8 of its 20 faces.':v>1.95?'Octahedron: the 12 points have drawn together in pairs into 6.':v<=1?'The 8 triangles turn and the squares fold: the cuboctahedron becoming the icosahedron.':'The icosahedron closing in towards the octahedron.'}
+  $('jt-m1').onclick=function(){setMode('jit')};$('jt-m2').onclick=function(){setMode('lad')};
+  var sl=$('jt-u');sl.addEventListener('input',function(){u=parseFloat(sl.value);auto=false;$('jt-play').textContent='Play';$('jt-note').textContent=jtxt(u)});
+  var playing=false,dir=1;$('jt-play').onclick=function(){playing=!playing;this.textContent=playing?'Pause':'Play'};
+  cv.addEventListener('pointerdown',function(e){drag={x:e.clientX,y:e.clientY};cv.setPointerCapture(e.pointerId)});
+  cv.addEventListener('pointermove',function(e){if(!drag)return;yaw+=(e.clientX-drag.x)*0.01;pit=Math.max(-1.4,Math.min(1.4,pit+(e.clientY-drag.y)*0.01));drag={x:e.clientX,y:e.clientY}});
+  cv.addEventListener('pointerup',function(){drag=null});cv.addEventListener('pointercancel',function(){drag=null});
+  var vis=true;try{new IntersectionObserver(function(e){vis=e[0].isIntersecting}).observe(cv)}catch(e){}
+  function frame(){
+    requestAnimationFrame(frame);if(!vis)return;
+    var d=window.devicePixelRatio||1;ctx.clearRect(0,0,W,H);ctx.lineWidth=1.6*d;
+    if(!drag)yaw+=0.004;
+    if(mode==='jit'){
+      if(playing){u+=dir*0.006;if(u>=2){u=2;dir=-1}if(u<=0){u=0;dir=1}sl.value=u;$('jt-note').textContent=jtxt(u)}
+      var V=jverts(u);
+      ctx.fillStyle='rgba(70,227,240,.07)';JTRI.forEach(function(t){var a=P2(V[t[0]]),b=P2(V[t[1]]),c=P2(V[t[2]]);ctx.beginPath();ctx.moveTo(a[0],a[1]);ctx.lineTo(b[0],b[1]);ctx.lineTo(c[0],c[1]);ctx.closePath();ctx.fill()});
+      JTRI.forEach(function(t){seg(V[t[0]],V[t[1]],.9,'#46e3f0');seg(V[t[1]],V[t[2]],.9,'#46e3f0');seg(V[t[0]],V[t[2]],.9,'#46e3f0')});
+      V.forEach(function(p){pt(p,'#e8c375',3.4)});
+      $('jt-cnt').textContent=(u>1.97?'6':'12')+' points';
+    }else{
+      var S=STAGES[stage],pts;
+      if(morph){morph.t=Math.min(1,morph.t+0.025);var e=morph.t<.5?2*morph.t*morph.t:1-Math.pow(-2*morph.t+2,2)/2;pts=morph.to.map(function(p,i){return lerp(morph.from[i],p,e)});cur=pts;if(morph.t>=1)morph=null}else{pts=S.P;cur=pts}
+      var a=morph?morph.t:1;
+      S.E.forEach(function(e){seg(pts[e[0]],pts[e[1]],a,'#46e3f0')});
+      pts.forEach(function(p,i){pt(p,(S.k==='r'&&i>=26)?'#b09cec':'#e8c375',S.n>20?2.6:3.6)});
+      $('jt-cnt').textContent=S.n+' points';
+    }
+  }
+  setMode('jit');$('jt-note').textContent=jtxt(0);frame();
+}
+function go(){initGlobe();initJit()}
+if(document.readyState==='loading')document.addEventListener('DOMContentLoaded',go);else go();
+})();
